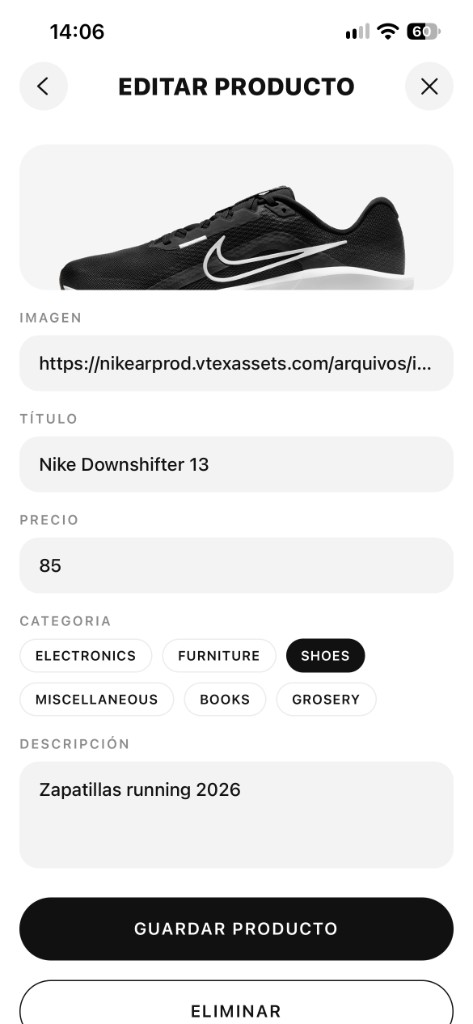
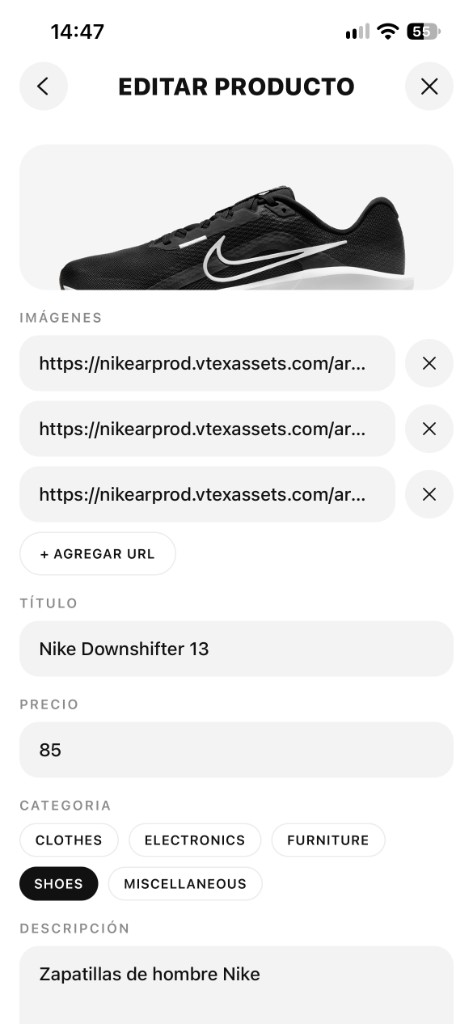
docs: actualizar capturas y README con varias imágenes y Reintentar

diff --git a/README.md b/README.md
@@ -47,9 +47,9 @@ Capturas tomadas en iPhone con Expo Go.
 | ------------------------------------------------------------------ | ----------------------------------------------------------- |
 | ![Productos por categoría](docs/screenshots/category-products.jpg) | ![Detalle de producto](docs/screenshots/product-detail.png) |
 
-| 5. Alta                                             | 5. Edición                                            |
-| --------------------------------------------------- | ----------------------------------------------------- |
-| ![Nuevo producto](docs/screenshots/product-new.png) | ![Editar producto](docs/screenshots/product-edit.png) |
+| 5. Alta                                             | 5. Edición (varias URLs precargadas)                  | 5. Alta sin conexión                                                          |
+| --------------------------------------------------- | ----------------------------------------------------- | ----------------------------------------------------------------------------- |
+| ![Nuevo producto](docs/screenshots/product-new.png) | ![Editar producto](docs/screenshots/product-edit.png) | ![Alta sin conexión con Reintentar](docs/screenshots/product-new-no-connection.png) |
 
 ## Estructura de carpetas
 
@@ -79,6 +79,7 @@ Las pantallas no llaman a `fetch`: piden los datos a `services/`, que verifica `
 3. "Armá un único `ProductForm` para alta y edición. El form no muestra el prefijo; `services/` lo agrega en POST/PUT solo si falta. El body usa `ProductInput` con `categoryId`."
 4. "Hidratá las pills de categoría del formulario con `getCategories()` y el tipo `Category` de la API."
 5. "Agregá validación al formulario: título, precio numérico ≥ 0, descripción, categoría y al menos una URL, con el error debajo de cada campo. Después de guardar o eliminar mostrá un aviso y volvé a una pantalla coherente."
+6. "Reemplazá el input de imagen por una lista de URLs con '+ Agregar URL' (mínimo una, todas `https://`). Si fallan las categorías o el producto en alta/edición, mostrá `ErrorMessage` con Reintentar. Agregá `ActivityIndicator` al cargar, guardar, borrar y al pie de la lista."
 
 ### Errores de la IA y cómo los corregimos
 
@@ -89,5 +90,7 @@ Las pantallas no llaman a `fetch`: piden los datos a `services/`, que verifica `
 **3. Formulario sin validación.** El `ProductForm` generado mandaba el POST/PUT con campos vacíos o precio no numérico y dependía del 400 del servidor, cuando la consigna (R5) pide validar antes de enviar. Agregamos validación de título, precio, descripción, categoría y URL `https://`, con el mensaje debajo de cada campo.
 
 **4. Categorías sucias en el selector.** La IA mostró todas las categorías del endpoint público, que incluye decenas de nombres de prueba (`Electronics from Config-<uuid>`, sufijos aleatorios). Normalizamos los nombres, descartamos los de prueba y deduplicamos; el body sigue enviando `categoryId`.
+
+**5. Error de carga mezclado con el de guardado.** Alta y edición usaban un solo estado `error` para las dos cosas. Si fallaban las categorías, el mensaje quedaba al pie del formulario, sin Reintentar, y Guardar terminaba en "Elegí una categoría". Separamos los estados y, cuando falla la carga, se muestra `ErrorMessage` con un Reintentar que vuelve a pedir los datos.
 
 Más detalle de cada caso en [`docs/ia.md`](docs/ia.md).

diff --git a/docs/ia.md b/docs/ia.md
@@ -75,4 +75,4 @@
 - Prompt: en `fix/imagenes-reintentar-loading`, lista de URLs con "+ Agregar URL" y quitar (mínimo una, todas `https://`, error por campo, precarga en editar); `ErrorMessage` con `title` y Reintentar cuando fallan las categorías (nuevo) o el producto (editar); Guardar deshabilitado sin categorías; `ActivityIndicator` al cargar nuevo/editar, al guardar/borrar y al pie de la lista.
 - Qué falló: nuevo y editar usaban un solo estado `error` para la carga y para el guardado. Si fallaban las categorías, el mensaje quedaba al pie del form, sin Reintentar, y Guardar terminaba en "Elegí una categoría". La primera versión de la IA además generaba los ids de los campos de URL con un `useRef` dentro del componente, lo que obligaba a silenciar las dependencias del efecto de hidratación.
 - Corrección: estados separados (`loadError` / `submitError` / `actionError`) y una función de carga que se reutiliza en Reintentar. Los ids de los campos se generan fuera del componente. `docs/design.md` pide skeletons y no spinner para cargar: la lista conserva los skeletons y el `ActivityIndicator` solo aparece al pie, en los botones y en las pantallas del form, como pidió el prompt.
-- Validación: `tsc` sin errores. Se probó en web (Expo en el navegador): crear con dos URLs, editar y quitar una, y Reintentar en nuevo y editar bloqueando la API. No se probó en Expo Go, y el flujo de borrar desde la UI tampoco: `Alert.alert` no hace nada en web. `expo lint` no corre porque no hay config de ESLint.
+- Validación: `tsc` sin errores. Se probó en web (Expo en el navegador): crear con dos URLs, editar y quitar una, y Reintentar en nuevo y editar bloqueando la API. Después se probó en iPhone con Expo Go: alta, edición con varias URLs, detalle con carrusel y Reintentar en modo avión (capturas en el README). `expo lint` no corre porque no hay config de ESLint.
